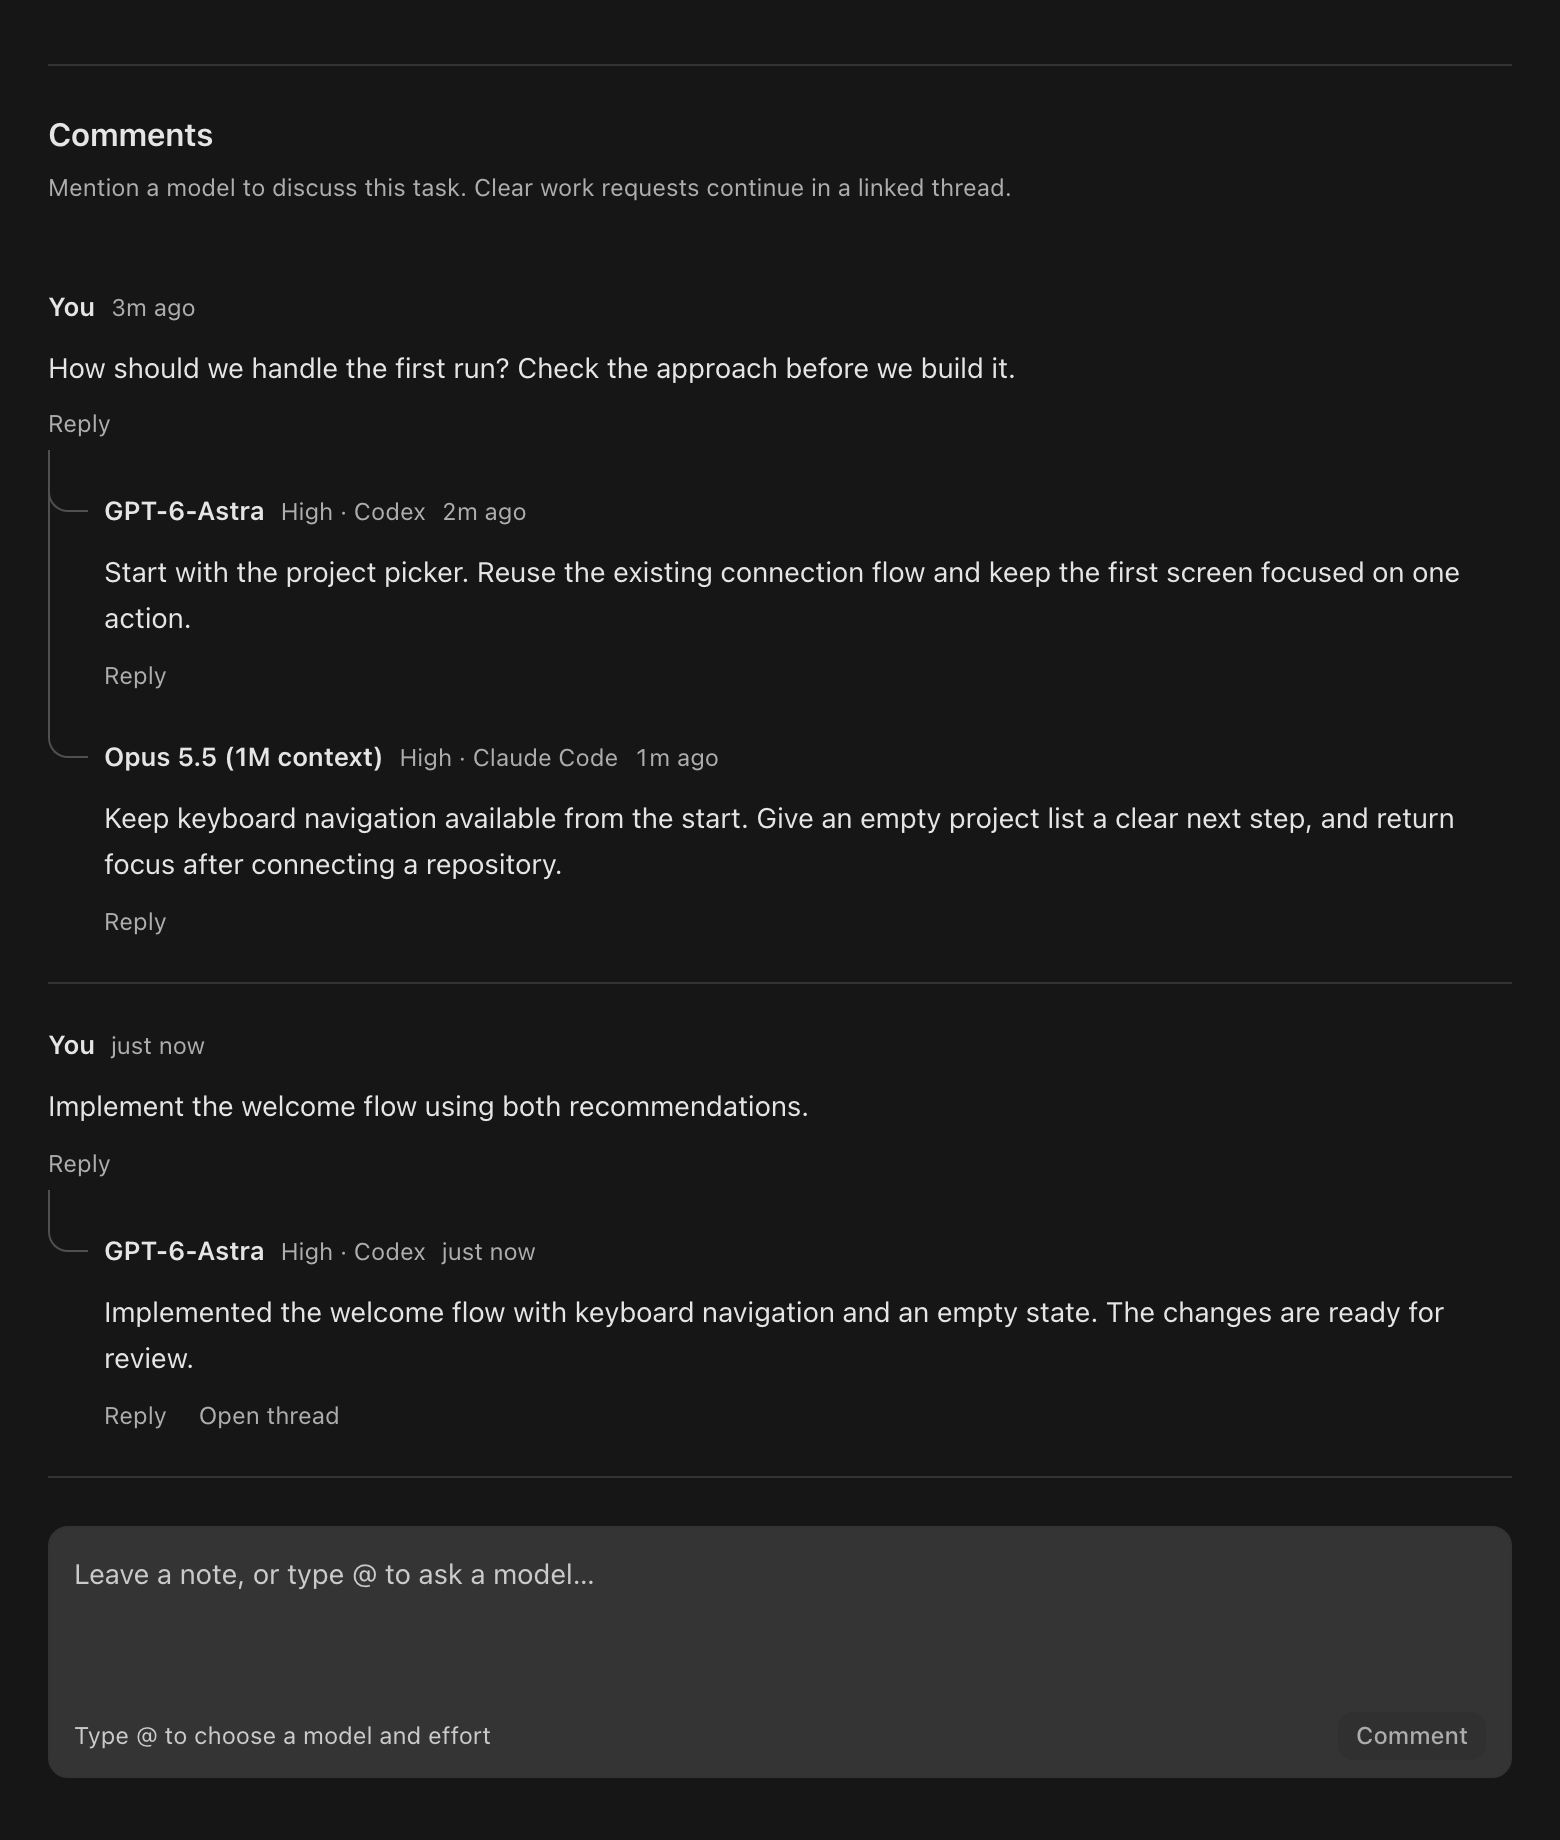
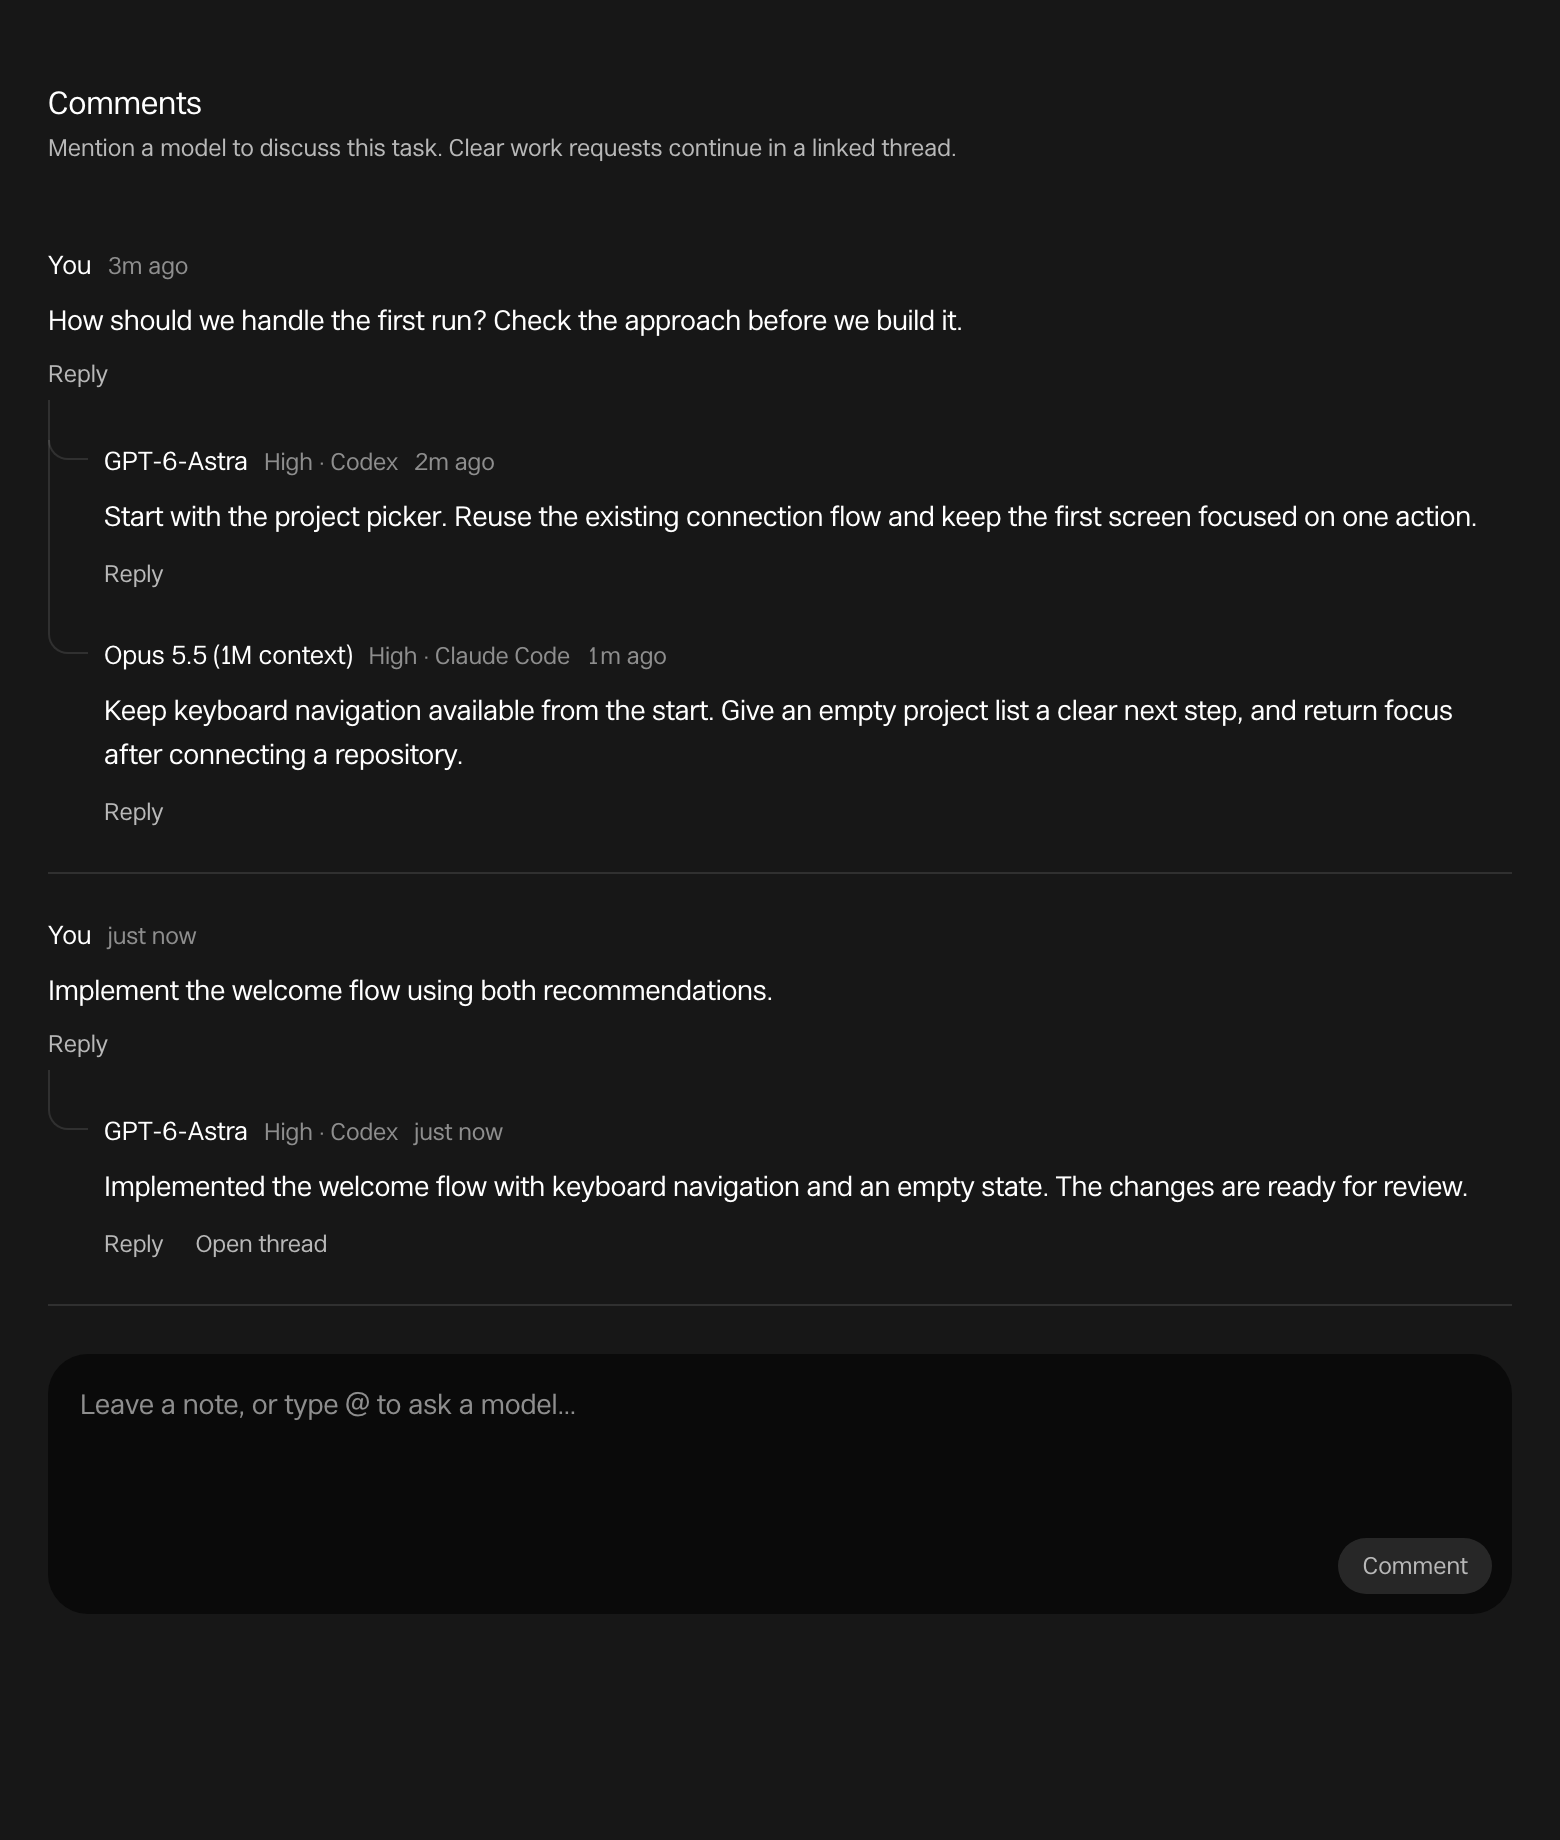
docs: show the redesigned app in the README
Recaptured from the product fixture. The discussion view now loads the interface font, and the fixture page has a doctype.

diff --git a/scripts/fixtures/website-product-ui.tsx b/scripts/fixtures/website-product-ui.tsx
@@ -6,6 +6,9 @@ import { QueryClientProvider } from "@tanstack/react-query";
 import { createDesignSettingsRpc } from "./design-settings";
 import { useRouter } from "../../apps/desktop/src/renderer/src/lib/router";
 import type { Block, RunTranscript } from "../../apps/desktop/src/renderer/src/lib/transcript";
+// main.tsx stamps the saved typefaces on <html>; the panel crops render without App, which would otherwise skip them.
+import "../../apps/desktop/src/renderer/src/lib/app-font";
+import "../../apps/desktop/src/renderer/src/lib/code-font";
 
 let automaticChecks = false;
 Object.assign(window, {

diff --git a/docs/images/readme/README.md b/docs/images/readme/README.md
@@ -1,6 +1,6 @@
 # README screenshots
 
-Captured on October 6, 2026 from the production renderer, with the current sidebar, the OpenOrc cube that ends a conversation, the composer's workspace footer, Immaculate Gothic type and team avatars. The sample conversations name GPT-6-Astra and Opus 5.5 (1M context).
+Captured on October 20, 2026 from the production renderer after the desktop redesign. They show one tile ground with the Changes panel as a card, the sidebar's inbox, search and toggle beside the window buttons, its weekly usage chip, the composer's model and mode pills, the OpenOrc cube that ends a conversation, team avatars and Immaculate Gothic at one weight. The sample conversations name GPT-6-Astra and Opus 5.5 (1M context).
 
 The [product fixture](../../../scripts/fixtures/website-product-ui.tsx) renders real application components and styles with synthetic projects, conversations, task comments, and changes. It does not connect to real accounts, providers, project files, or the desktop database. The team view demonstrates team execution, now in Beta.
 

diff --git a/README.md b/README.md
@@ -43,7 +43,7 @@ Memory is optional. Turn it off or configure automatic extraction in Settings.
 
 Capture an idea as a task, ask multiple models for input, then start implementation when you're ready. Work in your local checkout or an isolated worktree, and review changes beside the conversation.
 
-![OpenOrc with project threads in the sidebar, a Codex conversation ending in the OpenOrc cube, and a source diff in the Changes panel](docs/images/readme/workspace.png)
+![OpenOrc with project threads and weekly usage in the sidebar, a Codex conversation ending in the OpenOrc cube, and a source diff in the Changes panel](docs/images/readme/workspace.png)
 
 ![OpenOrc team conversation showing the lead, builder, and reviewer with their models, contributions, and shared composer](docs/images/readme/teams.png)
 
